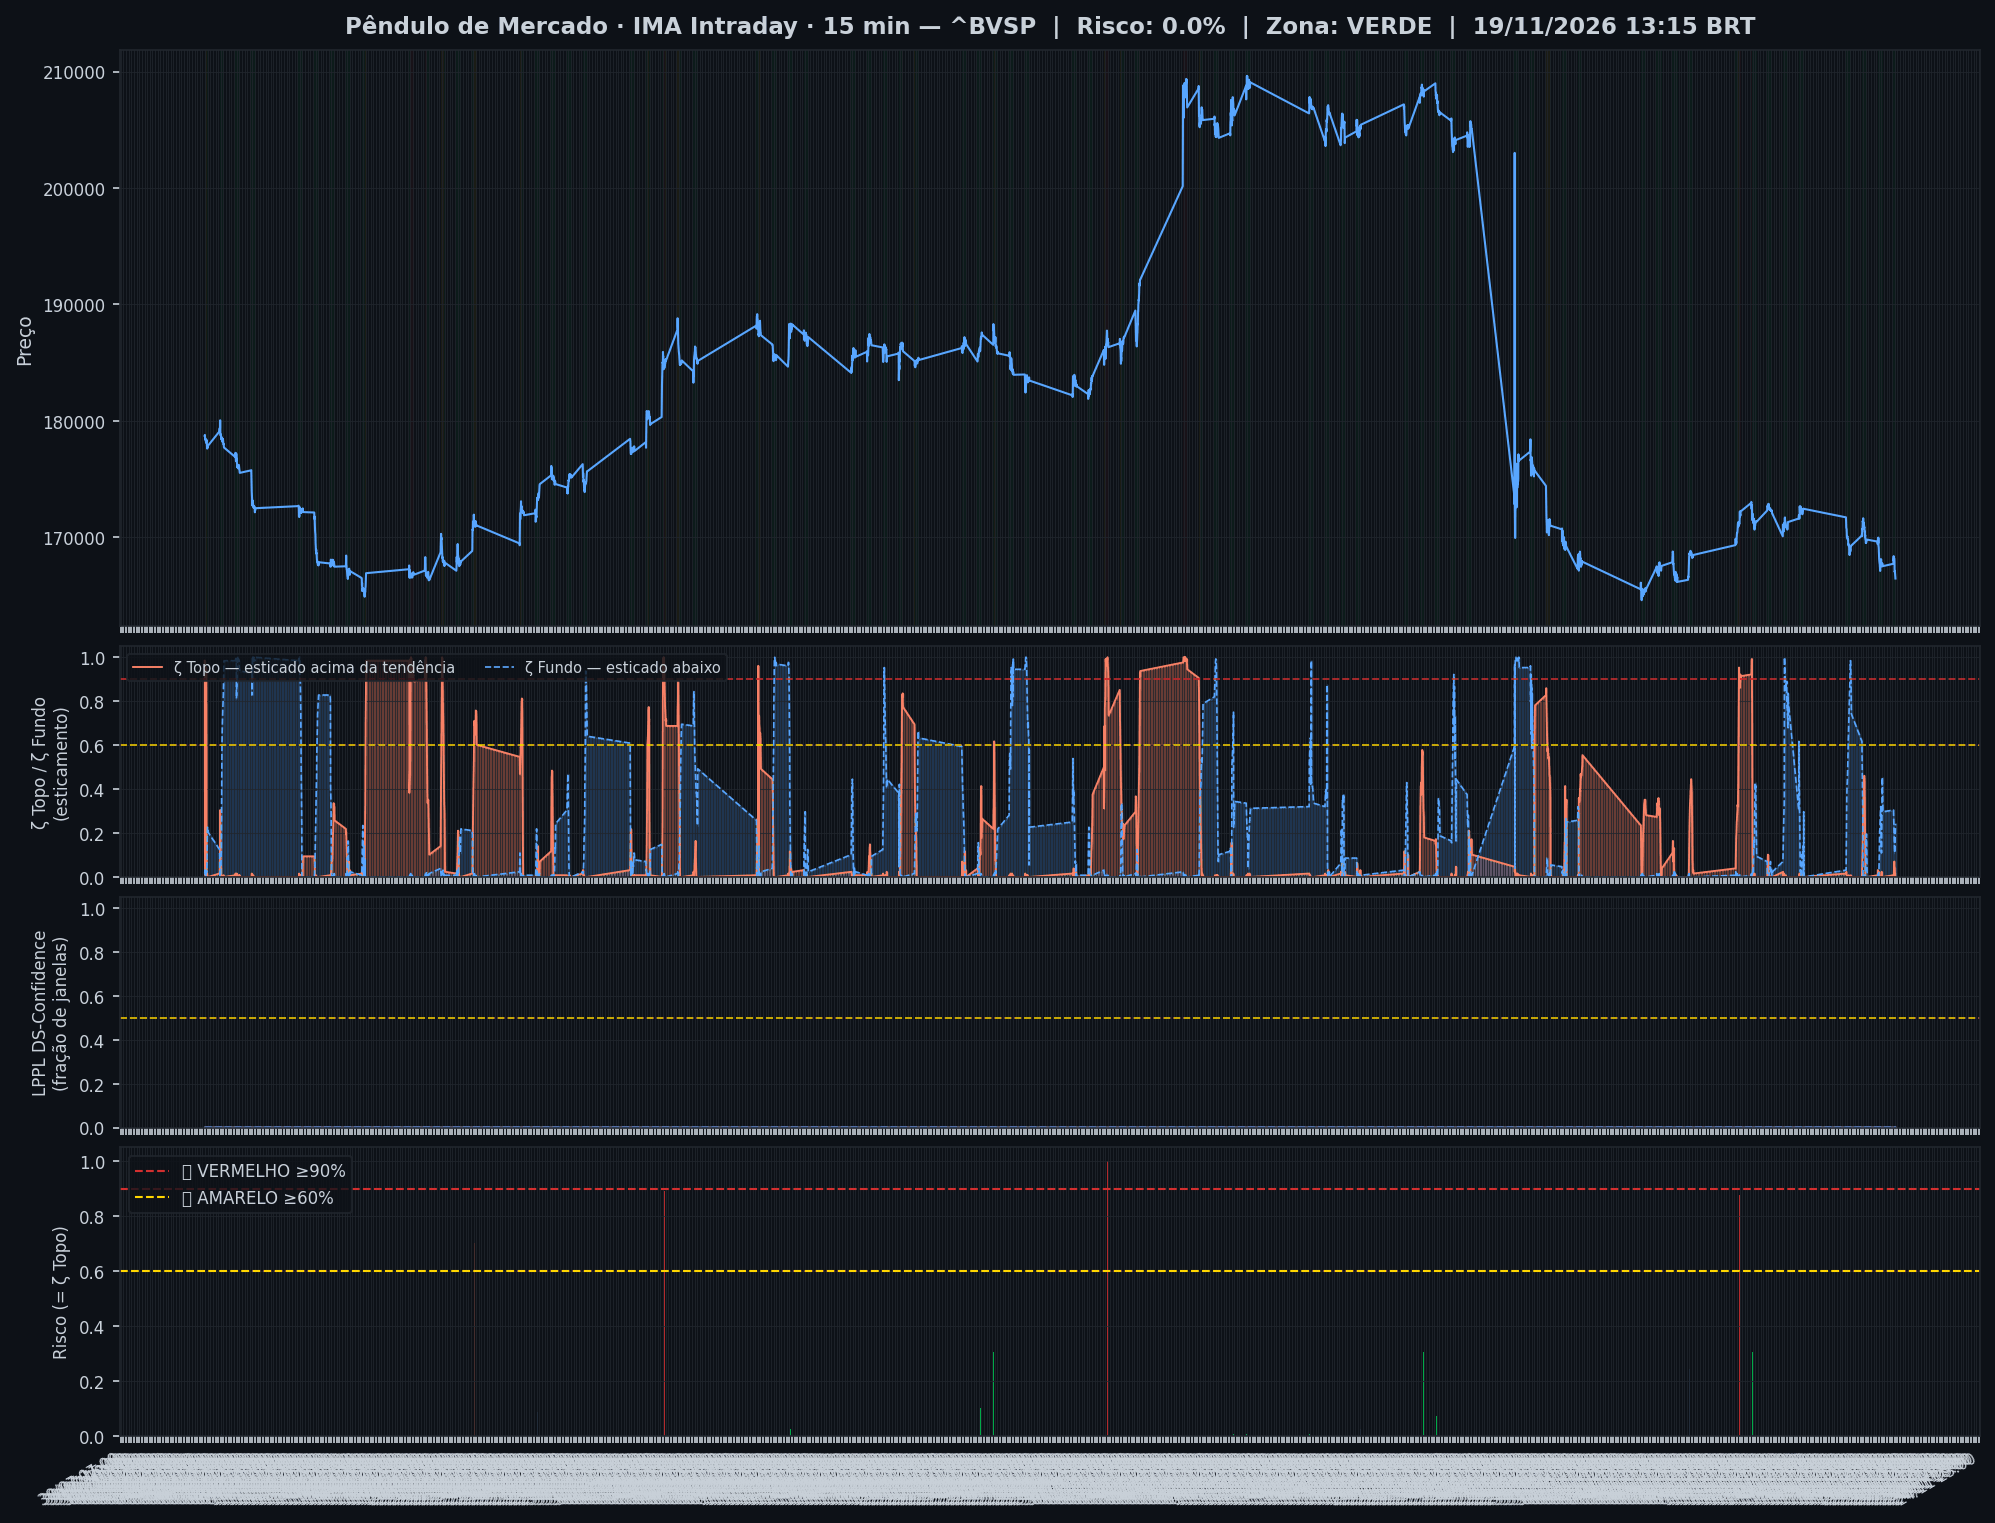
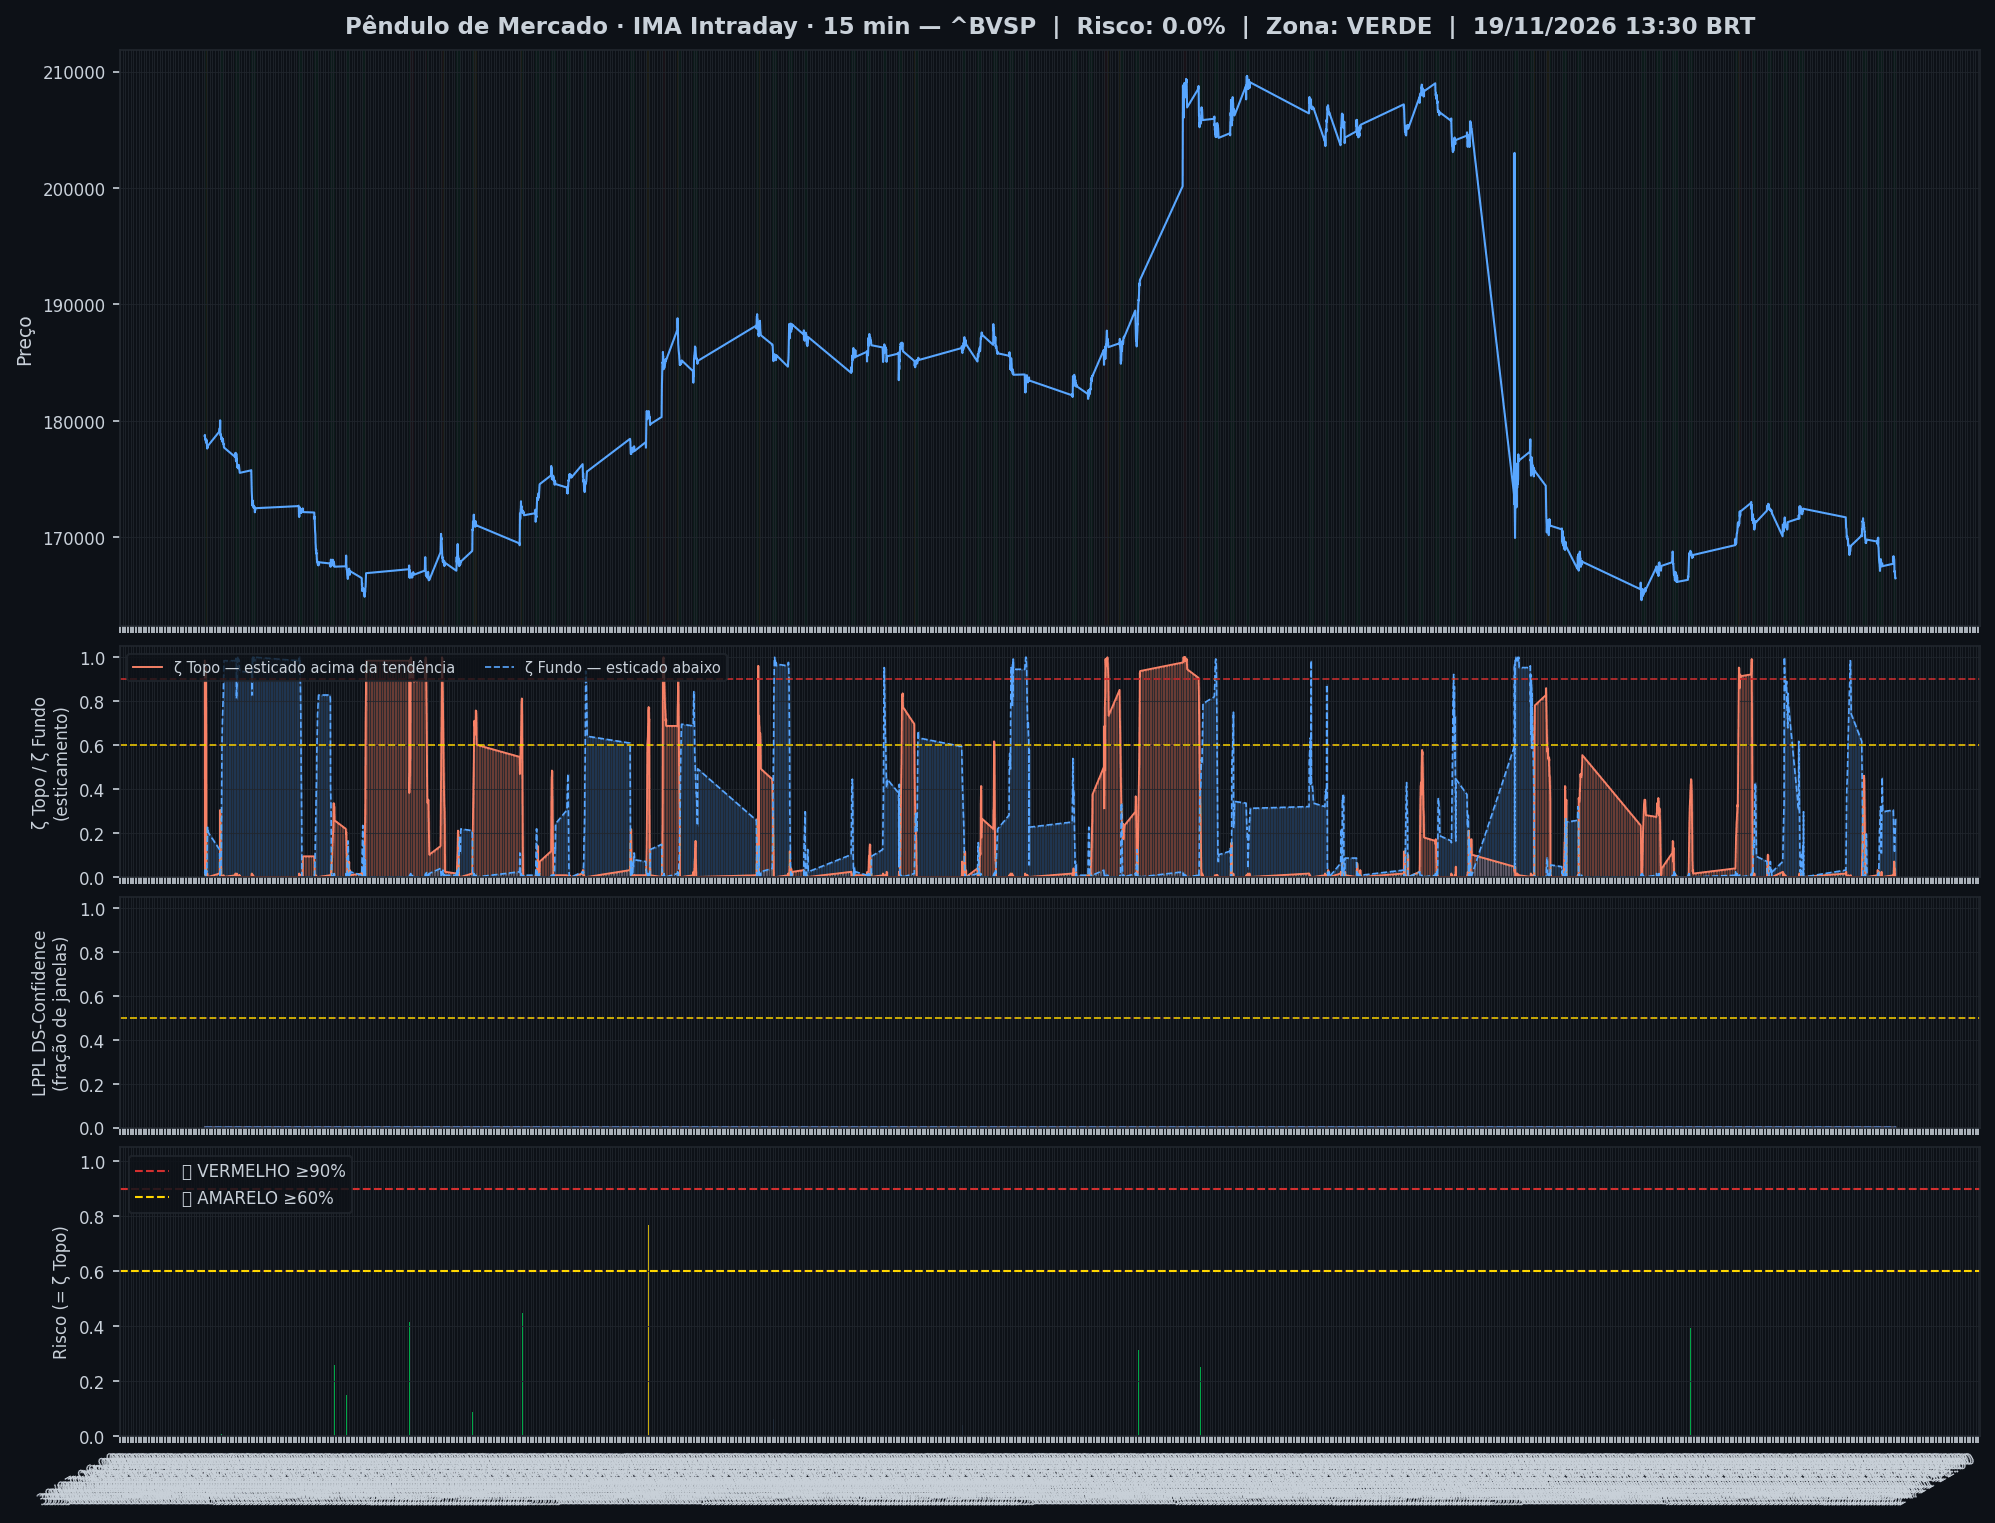
🤖 Auto: Sinal 19/11/2026 13:46

Changed region(s): [[0.0932, 0.432, 0.9634, 0.5863], [0.0311, 0.9258, 0.9945, 0.9875]]

diff --git a/content/intraday/2026-11-19.md b/content/intraday/2026-11-19.md
@@ -1,11 +1,11 @@
 ---
-title: "🟢 Intraday 19/11/2026 13:15 BRT — VERDE"
+title: "🟢 Intraday 19/11/2026 13:30 BRT — VERDE"
 date: 2026-11-19
 tags: [intraday]
 ---
 
-> [!success] Onde o mercado está agora (19/11 13:15, candles de 15 min): **🟢 Calmo**
-> `Pânico ◀────────●────────────▶ Euforia`
+> [!success] Onde o mercado está agora (19/11 13:30, candles de 15 min): **🟢 Calmo**
+> `Pânico ◀───────●─────────────▶ Euforia`
 >
 > O Ibovespa está dentro da sua faixa normal, sem excesso para cima nem para baixo.
 > No gráfico diário: 🌱 Fundo se desfazendo.
@@ -20,7 +20,7 @@ tags: [intraday]
 > | 📍 **Sinais** | hoje: nenhum sinal | [abrir](sinais-topo-fundo/) |
 > | 🧪 **Placar ao vivo** | 1 operação(ões), 0 com lucro, soma -0,8% | [abrir](operacoes/) |
 
-> [!success] IMA Intraday · 15 min (19/11 13:15): 🟢 **VERDE** — Risco 0% · ＝ +0 p.p. vs leitura anterior
+> [!success] IMA Intraday · 15 min (19/11 13:30): 🟢 **VERDE** — Risco 0% · ＝ +0 p.p. vs leitura anterior
 > `░░░░░░░░░░░░░░░░░░░░`
 > Preço na faixa normal em torno da tendência.
 
@@ -32,13 +32,13 @@ tags: [intraday]
 >
 > *Leitura educacional baseada em 26 anos de dados, não recomendação. [Como usar](../metodologia/crise#3-como-usar-na-prática).*
 
-| Indicador — IMA Intraday · 15 min (19/11 13:15) | Valor |
+| Indicador — IMA Intraday · 15 min (19/11 13:30) | Valor |
 |---|---|
 | 🔴 ζ Topo — preço esticado acima da tendência | **0%** |
-| 🔵 ζ Fundo — preço esticado abaixo da tendência | 24% |
+| 🔵 ζ Fundo — preço esticado abaixo da tendência | 27% |
 | 🫧 LPPL bolha — alta super-exponencial (risco de crash) | 0% |
 | 🫧 LPPL antibolha — queda super-exponencial (risco de repique) | 0% |
-| 📊 Ibovespa | 166.474 pts |
+| 📊 Ibovespa | 166.495 pts |
 
 ![Gráfico do sinal](../graficos/sinal_intraday.png)
 
@@ -46,6 +46,7 @@ tags: [intraday]
 
 | Data | Zona | Evento | Risco | ζ Topo | ζ Fundo | LPPL |
 |---|---|---|---|---|---|---|
+| 2026-11-19 13:30 | 🟢 VERDE |  | **0%** | 0% | 27% | 0% |
 | 2026-11-19 13:15 | 🟢 VERDE |  | **0%** | 0% | 24% | 0% |
 | 2026-11-19 13:00 | 🟢 VERDE |  | **0%** | 0% | 23% | 0% |
 | 2026-11-19 12:45 | 🟢 VERDE |  | **0%** | 0% | 20% | 0% |
@@ -75,52 +76,51 @@ tags: [intraday]
 | 2026-11-18 15:00 | 🟢 VERDE |  | **0%** | 0% | 25% | 0% |
 | 2026-11-18 14:45 | 🟢 VERDE |  | **0%** | 0% | 32% | 0% |
 | 2026-11-18 14:30 | 🟢 VERDE |  | **0%** | 0% | 32% | 0% |
-| 2026-11-18 14:15 | 🟢 VERDE |  | **0%** | 0% | 29% | 0% |
 
 <small>Destaques: 🟡 ≥ 60% · 🔴 ≥ 90% (Risco e ζ Topo) · 🔵 ≥ 60% · 🔪 ≥ 90% (ζ Fundo) · 🫧 ≥ 30% · 🫧🔴 ≥ 50% (LPPL)</small>
 
 ## Monitor Multi-Ativo
 
-**4% dos ativos em tensão** (0🔴 2🟡) · **2 com ζ Fundo alto** — quanto mais ativos disparam juntos, mais confiável o sinal.
+**4% dos ativos em tensão** (0🔴 1🟡) · **2 com ζ Fundo alto** — quanto mais ativos disparam juntos, mais confiável o sinal.
 
 > [!danger] Em destaque no multi-ativo
-> 🔪 **PRIO** ζ Fundo 98% · 🔪 **SUZANO S.A.** ζ Fundo 98% · 🟡 **BRASIL** ζ Topo 82%
+> 🔪 **PRIO** ζ Fundo 98% · 🔪 **SUZANO S.A.** ζ Fundo 96% · 🟡 **BRASIL** ζ Topo 86%
 
 | Zona | Ativo | Setor | ζ Topo | ζ Fundo |
 |---|---|---|---|---|
 | 🟢 | **PRIO** | Petróleo | 0.0% | 🔪 **98.4%** |
-| 🟢 | **SUZANO S.A.** | Papel/Celulose | 0.8% | 🔪 **97.7%** |
-| 🟡 | **BRASIL** | Financeiro | 🟡 **82.0%** | 0.0% |
-| 🟡 | **USD/BRL** | Câmbio | 56.2% | 0.0% |
-| 🟢 | **AMBEV S/A** | Consumo | 1.6% | 55.5% |
-| 🟢 | **TELEF BRASIL** | Outros | 0.0% | 55.5% |
-| 🟢 | **RUMO S.A.** | Outros | 0.0% | 49.2% |
-| 🟢 | **COPEL** | Energia | 0.8% | 46.1% |
-| 🟢 | **REDE D OR** | Saúde | 0.0% | 45.3% |
-| 🟢 | **GERDAU** | Siderurgia | 41.4% | 1.6% |
-| 🟢 | **AXIA ENERGIA** | Energia | 0.8% | 34.4% |
-| 🟢 | **ULTRAPAR** | Outros | 0.0% | 32.0% |
-| 🟢 | **B3** | Financeiro | 16.4% | 1.6% |
-| 🟢 | **WEG** | Industrial | 0.0% | 14.8% |
-| 🟢 | **ITAUUNIBANCO** | Financeiro | 0.8% | 12.5% |
-| 🟢 | **BRADESCO** | Financeiro | 0.8% | 11.7% |
-| 🟢 | **VIBRA** | Energia | 0.0% | 11.7% |
-| 🟢 | **LOCALIZA** | Aluguel | 0.0% | 11.7% |
+| 🟢 | **SUZANO S.A.** | Papel/Celulose | 0.8% | 🔪 **96.1%** |
+| 🟡 | **BRASIL** | Financeiro | 🟡 **85.9%** | 0.0% |
+| 🟢 | **TELEF BRASIL** | Outros | 0.0% | 59.4% |
+| 🟢 | **AMBEV S/A** | Consumo | 0.8% | 57.0% |
+| 🟢 | **RUMO S.A.** | Outros | 0.0% | 50.0% |
+| 🟢 | **REDE D OR** | Saúde | 0.0% | 48.4% |
+| 🟢 | **COPEL** | Energia | 0.0% | 46.9% |
+| 🟢 | **USD/BRL** | Câmbio | 33.6% | 0.0% |
+| 🟢 | **GERDAU** | Siderurgia | 32.8% | 0.8% |
+| 🟢 | **AXIA ENERGIA** | Energia | 0.0% | 32.0% |
+| 🟢 | **ULTRAPAR** | Outros | 0.0% | 30.5% |
+| 🟢 | **WEG** | Industrial | 0.0% | 17.2% |
+| 🟢 | **ITAUUNIBANCO** | Financeiro | 0.0% | 14.1% |
+| 🟢 | **BRADESCO** | Financeiro | 0.8% | 13.3% |
+| 🟢 | **B3** | Financeiro | 11.7% | 1.6% |
 | 🟢 | **VALE** | Mineração | 0.0% | 10.2% |
-| 🟢 | **ITAUSA** | Financeiro | 0.0% | 8.6% |
-| 🟢 | **EQUATORIAL** | Energia | 0.0% | 7.0% |
-| 🟢 | **BTGP BANCO** | Financeiro | 0.0% | 5.5% |
+| 🟢 | **ITAUSA** | Financeiro | 0.0% | 10.2% |
+| 🟢 | **VIBRA** | Energia | 0.0% | 8.6% |
+| 🟢 | **LOCALIZA** | Aluguel | 0.0% | 8.6% |
+| 🟢 | **BTGP BANCO** | Financeiro | 0.0% | 7.8% |
 | 🟢 | **PETROBRAS** | Petróleo | 0.0% | 4.7% |
-| 🟢 | **SABESP** | Saneamento | 1.6% | 2.3% |
-| 🟢 | **ENEVA** | Energia | 0.8% | 0.8% |
-| 🟢 | **PETROBRAS** | Petróleo | 0.0% | 0.0% |
-| 🟢 | **EMBRAER** | Outros | 0.0% | 0.0% |
+| 🟢 | **EQUATORIAL** | Energia | 0.0% | 4.7% |
+| 🟢 | **EMBRAER** | Outros | 1.6% | 0.8% |
+| 🟢 | **PETROBRAS** | Petróleo | 0.0% | 0.8% |
+| 🟢 | **SABESP** | Saneamento | 0.8% | 0.8% |
+| 🟢 | **ENEVA** | Energia | 0.0% | 0.8% |
 
 <small>Destaques: 🟡 ≥ 60% · 🔴 ≥ 90% (Risco e ζ Topo) · 🔵 ≥ 60% · 🔪 ≥ 90% (ζ Fundo) · 🫧 ≥ 30% · 🫧🔴 ≥ 50% (LPPL)</small>
 
 ![Monitor multi-ativo](../graficos/multi_intraday.png)
 
-*Página atualizada em 19/11/2026 13:31 BRT (leitura da barra de 2026-11-19 13:15 BRT).*
+*Página atualizada em 19/11/2026 13:46 BRT (leitura da barra de 2026-11-19 13:30 BRT).*
 
 > [!warning] O que este indicador não faz
 > Medido em 5 anos de Ibovespa, o ζ **não antecipa** topos nem fundos: a capacidade de separar o que sobe do que cai ficou em 0,49–0,52, e 0,50 é moeda jogada ao ar. Ele descreve o estado de agora; não é aviso do que vem. As zonas verde/amarelo/vermelho continuam na página como descrição desse estado — **não as use como sinal de entrada ou saída**.

diff --git a/content/index.md b/content/index.md
@@ -6,10 +6,10 @@ tags: [home]
 
 **As ondas do mercado, explicadas.** Leitura do Ibovespa com estatística de 26 anos, baseada no trabalho de pesquisadores e traders reconhecidos e adaptada por Jarbas Daniel da Costa.
 
-*Última atualização: 19/11/2026 13:31 BRT · Intraday 15min*
+*Última atualização: 19/11/2026 13:46 BRT · Intraday 15min*
 
-> [!success] Onde o mercado está agora (19/11 13:15, candles de 15 min): **🟢 Calmo**
-> `Pânico ◀────────●────────────▶ Euforia`
+> [!success] Onde o mercado está agora (19/11 13:30, candles de 15 min): **🟢 Calmo**
+> `Pânico ◀───────●─────────────▶ Euforia`
 >
 > O Ibovespa está dentro da sua faixa normal, sem excesso para cima nem para baixo.
 > No gráfico diário: 🌱 Fundo se desfazendo.
@@ -44,26 +44,26 @@ tags: [home]
 > *Leitura educacional baseada em 26 anos de dados, não recomendação. [Como usar](metodologia/crise#3-como-usar-na-prática).*
 
 > [!info]- 🌊 Detalhes do Sinal IMA (indicadores e últimos 7 pregões)
-> > [!success] IMA Intraday · 15 min (19/11 13:15): 🟢 **VERDE** — Risco 0% · ＝ +0 p.p. vs leitura anterior
+> > [!success] IMA Intraday · 15 min (19/11 13:30): 🟢 **VERDE** — Risco 0% · ＝ +0 p.p. vs leitura anterior
 > > `░░░░░░░░░░░░░░░░░░░░`
 > > Preço na faixa normal em torno da tendência.
 >
 >
-> | Indicador — IMA Intraday · 15 min (19/11 13:15) | Valor |
+> | Indicador — IMA Intraday · 15 min (19/11 13:30) | Valor |
 > |---|---|
 > | 🔴 ζ Topo — preço esticado acima da tendência | **0%** |
-> | 🔵 ζ Fundo — preço esticado abaixo da tendência | 24% |
+> | 🔵 ζ Fundo — preço esticado abaixo da tendência | 27% |
 > | 🫧 LPPL bolha — alta super-exponencial (risco de crash) | 0% |
 > | 🫧 LPPL antibolha — queda super-exponencial (risco de repique) | 0% |
-> | 📊 Ibovespa | 166.474 pts |
+> | 📊 Ibovespa | 166.495 pts |
 >
-> **Multi-ativo:** 4% em tensão (0🔴 2🟡 de 27 ativos)
+> **Multi-ativo:** 4% em tensão (0🔴 1🟡 de 27 ativos)
 >
 > **Últimos 7 pregões**
 >
 > | Data | Zona | Risco | ζ Topo | ζ Fundo | LPPL |
 > |---|---|---|---|---|---|
-> | [19/11/2026](intraday/2026-11-19) | 🟢 VERDE | **0%** | 0% | 24% | 0% |
+> | [19/11/2026](intraday/2026-11-19) | 🟢 VERDE | **0%** | 0% | 27% | 0% |
 > | [18/11/2026](intraday/2026-11-18) | 🟢 VERDE | **0%** | 0% | 30% | 0% |
 >
 > <small>Destaques: 🟡 ≥ 60% · 🔴 ≥ 90% (Risco e ζ Topo) · 🔵 ≥ 60% · 🔪 ≥ 90% (ζ Fundo) · 🫧 ≥ 30% · 🫧🔴 ≥ 50% (LPPL)</small>

diff --git a/content/integridade/index.md b/content/integridade/index.md
@@ -5,7 +5,7 @@ description: "O que foi conferido, contra qual fonte e quando — medido na hora
 tags: [integridade]
 ---
 
-*Pregão conferido: **18/11/2026**, com 59 tabelas no acervo · página gerada em 19/11/2026 13:31*
+*Pregão conferido: **18/11/2026**, com 59 tabelas no acervo · página gerada em 19/11/2026 13:46*
 
 O pregão conferido é o último **fechado e arquivado inteiro**, não o de hoje: enquanto o dia corre, só algumas tabelas estão gravadas, e conferir um dia pela metade produziria alarme falso.
 
@@ -22,7 +22,7 @@ Esta página não declara que o site está correto. Ela **mede** e escreve o res
 | Tabelas com conteúdo fora da curva | **1** — veja a seção 1 |
 | Páginas publicadas | 356 |
 | Conferências cruzadas das páginas | **2 divergência(s)** de 71 — veja a seção 2 |
-| Página escrita mais recentemente | 19/11 13:31 |
+| Página escrita mais recentemente | 19/11 13:46 |
 | Páginas sem data no cabeçalho | 8 — cegas para a conferência de dado |
 
 ## 1 · Acervo do boletim diário
@@ -125,10 +125,10 @@ Pregão mais recente declarado por alguma página: **19/11/2026**.
 
 | página | escrita em | dias parada |
 |---|---|---:|
-| `diario/index.md` | 16/11 14:43 | 2.9 |
-| `intraday/index.md` | 16/11 14:43 | 2.9 |
+| `diario/index.md` | 16/11 14:43 | 3.0 |
+| `intraday/index.md` | 16/11 14:43 | 3.0 |
 | `por-onde-comecar.md` | 16/11 15:20 | 2.9 |
-| `ofertas.md` | 16/11 21:56 | 2.6 |
+| `ofertas.md` | 16/11 21:56 | 2.7 |
 
 ### As páginas concordam entre si?
 

diff --git a/content/historico.md b/content/historico.md
@@ -5,7 +5,7 @@ tags: [historico]
 
 # 📜 Histórico de leituras (v5)
 
-**2.495 leituras** desde 2026-07-03. Na página ficam os últimos 3 dias leitura por leitura e o resumo de cada dia anterior; o registro inteiro está no arquivo para baixar.
+**2.496 leituras** desde 2026-07-03. Na página ficam os últimos 3 dias leitura por leitura e o resumo de cada dia anterior; o registro inteiro está no arquivo para baixar.
 
 [**Baixar o histórico completo**](historico-completo.csv) (109 KB · abre no Excel e no LibreOffice)
 
@@ -16,6 +16,7 @@ tags: [historico]
 
 | Data | Modo | Zona | Risco | IMA | LPPL |
 |---|---|---|---|---|---|
+| 2026-11-19 13:30 | intraday | 🟢 VERDE | 0% | 0% | 0% |
 | 2026-11-19 13:15 | intraday | 🟢 VERDE | 0% | 0% | 0% |
 | 2026-11-19 13:00 | intraday | 🟢 VERDE | 0% | 0% | 0% |
 | 2026-11-19 12:45 | intraday | 🟢 VERDE | 0% | 0% | 0% |

diff --git a/content/operacoes/ranking.md b/content/operacoes/ranking.md
@@ -5,7 +5,7 @@ tags: [operacoes]
 description: "As regras de compra do site ordenadas pelo resultado, com treino, teste e placar ao vivo"
 ---
 
-*Atualizado 19/11/2026 13:31 · histórico simulado com as regras congeladas em 23/10/2026 + placar ao vivo.*
+*Atualizado 19/11/2026 13:46 · histórico simulado com as regras congeladas em 23/10/2026 + placar ao vivo.*
 
 As regras de compra do site, **da que mais rendeu para a que menos rendeu**. O resultado é por operação, no índice à vista, sem custos e sem juros compostos (a soma é só a soma das operações). **Treino** = entradas de 2001 a 2013 e **teste** = 2014 em diante: uma regra só é confiável se ganhou nos dois. O único resultado sem nenhum ajuste ao histórico é o **placar ao vivo**.
 

diff --git a/content/linha-do-tempo/index.md b/content/linha-do-tempo/index.md
@@ -5,7 +5,7 @@ description: "Todo sinal, ordem, stop e aviso do Pêndulo de Mercado, do mais re
 tags: [eventos]
 ---
 
-*Atualizada 19/11/2026 13:31 BRT · a cada 15 min no pregão e às 19h.*
+*Atualizada 19/11/2026 13:46 BRT · a cada 15 min no pregão e às 19h.*
 
 Tudo o que o sistema fez ou detectou, **do mais recente para o mais antigo**: sinais de topo e fundo, ordens de compra e de venda armadas, compras, vendas, stops, avisos de 🚨 preço perto do nível e mudanças do Sinal IMA. Os **últimos 7 dias** ficam abertos; o resto, por **ano → mês → dia**.
 

diff --git a/content/avisos/index.md b/content/avisos/index.md
@@ -2,7 +2,7 @@
 title: "⚠ Avisos: o que saber antes de usar os números"
 ---
 
-*Gerado em 19/11/2026 13:31*
+*Gerado em 19/11/2026 13:46*
 
 Este site publica muitos números, e cada um tem uma limitação que importa na hora de
 decidir. As limitações estão escritas nas próprias páginas, mas quem chega direto numa
